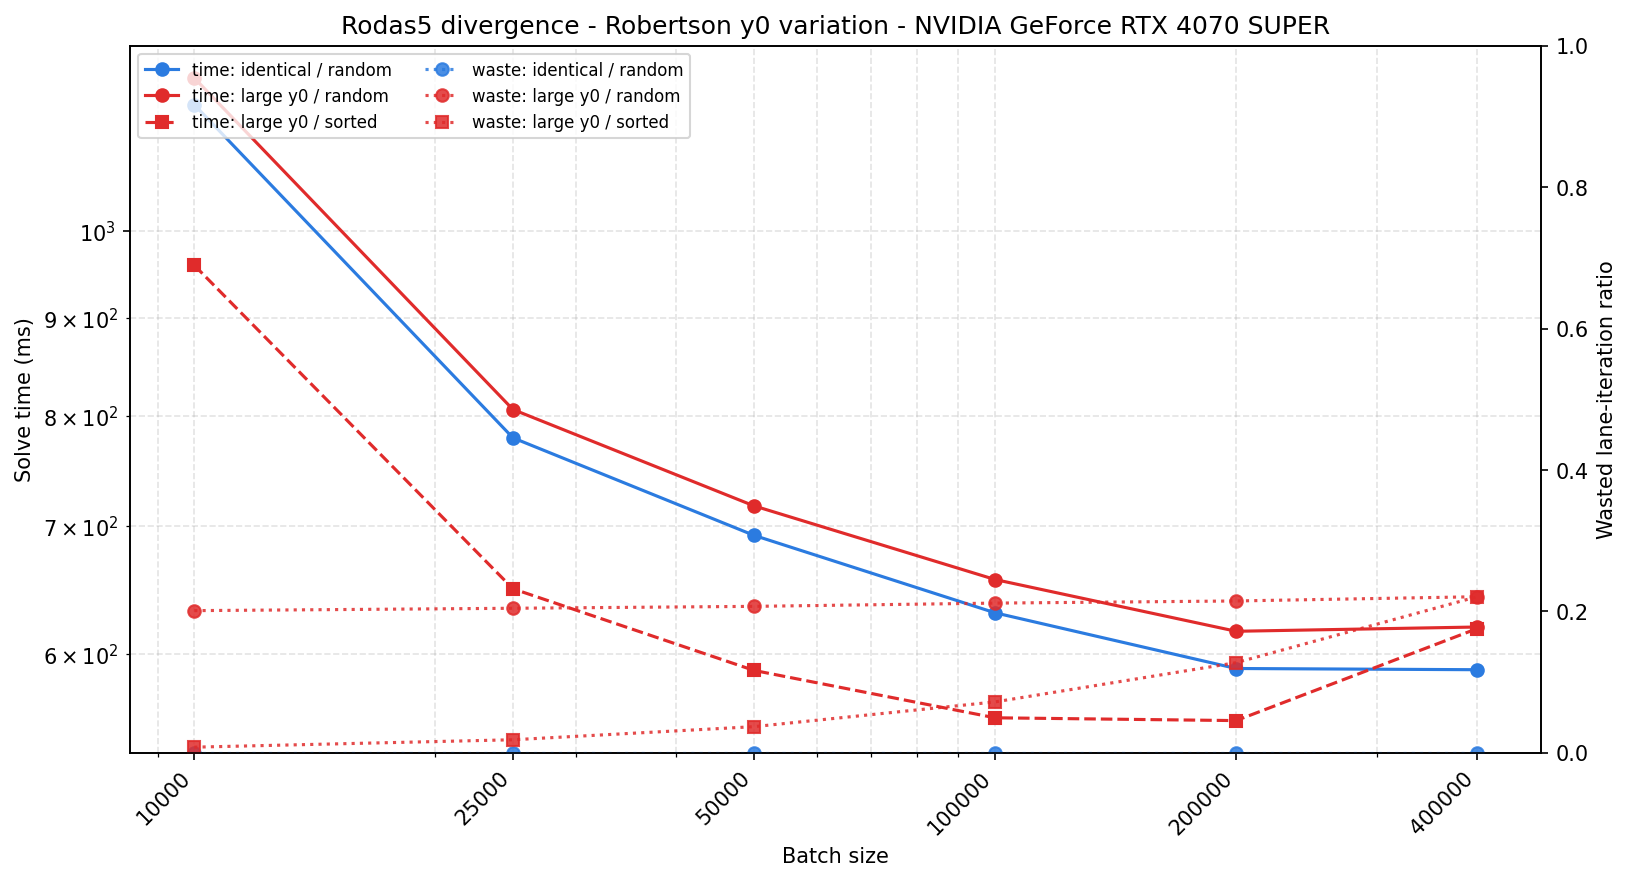
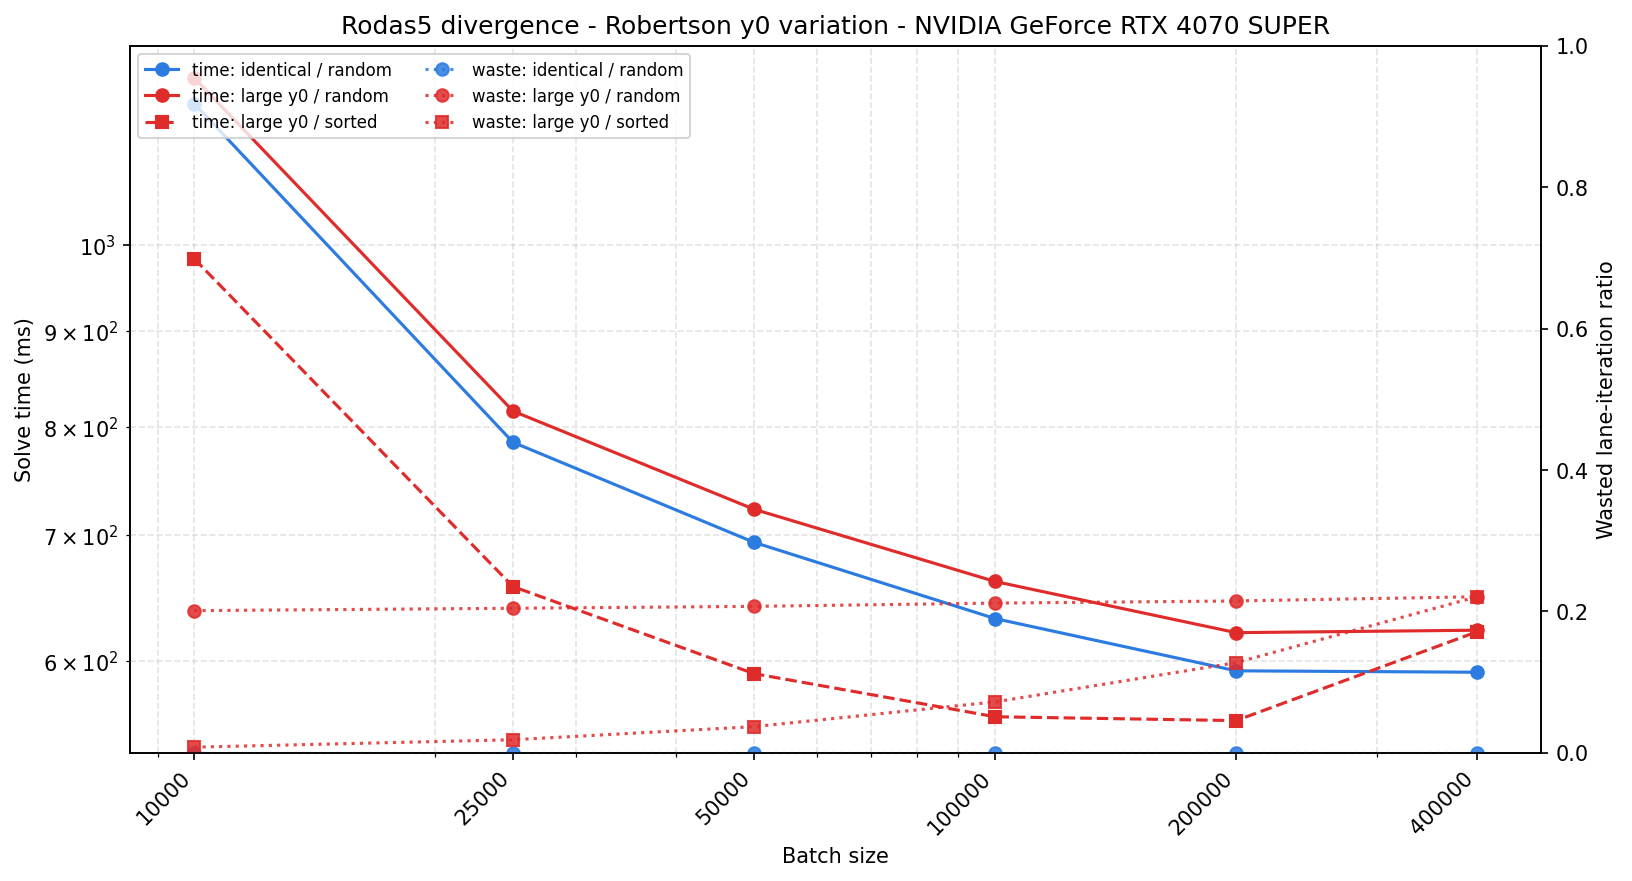
Ran script 8

diff --git a/scripts/8_rodas5_robertson_pure_jax_batching/main.py b/scripts/8_rodas5_robertson_pure_jax_batching/main.py
@@ -65,7 +65,7 @@ jax.config.update("jax_enable_x64", True)
 
 _N_TRAJ = 400_000
 _T_SPAN = robertson.TIMES
-_N_RUNS = 5
+_N_RUNS = 1
 _BATCH_SIZES = (10_000, 25_000, 50_000, 100_000, 200_000, 400_000)
 _SOLVER_KWARGS = {
     "first_step": 1e-4,
